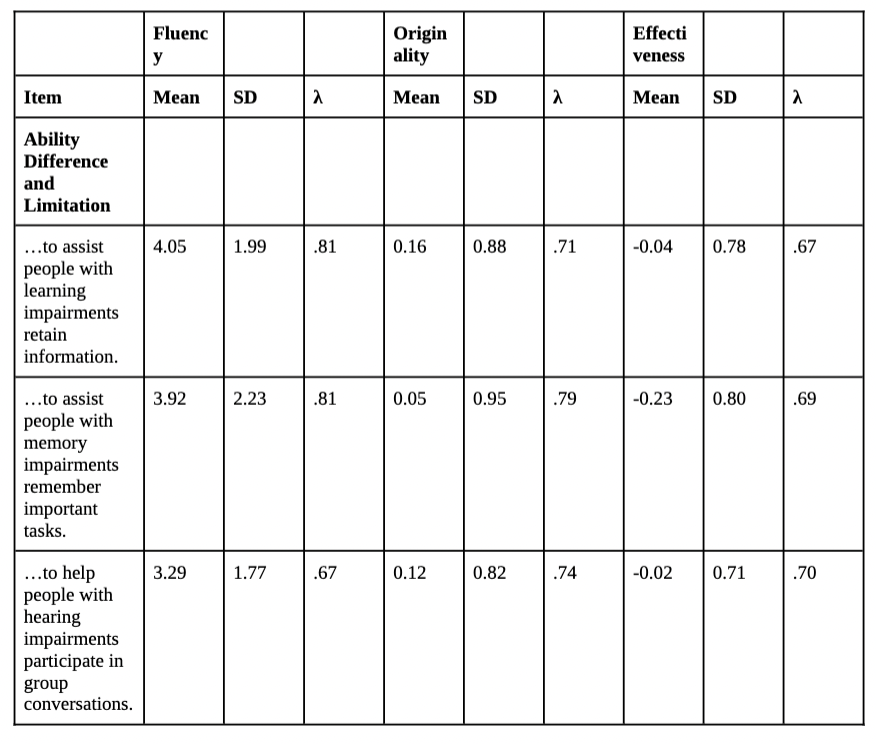
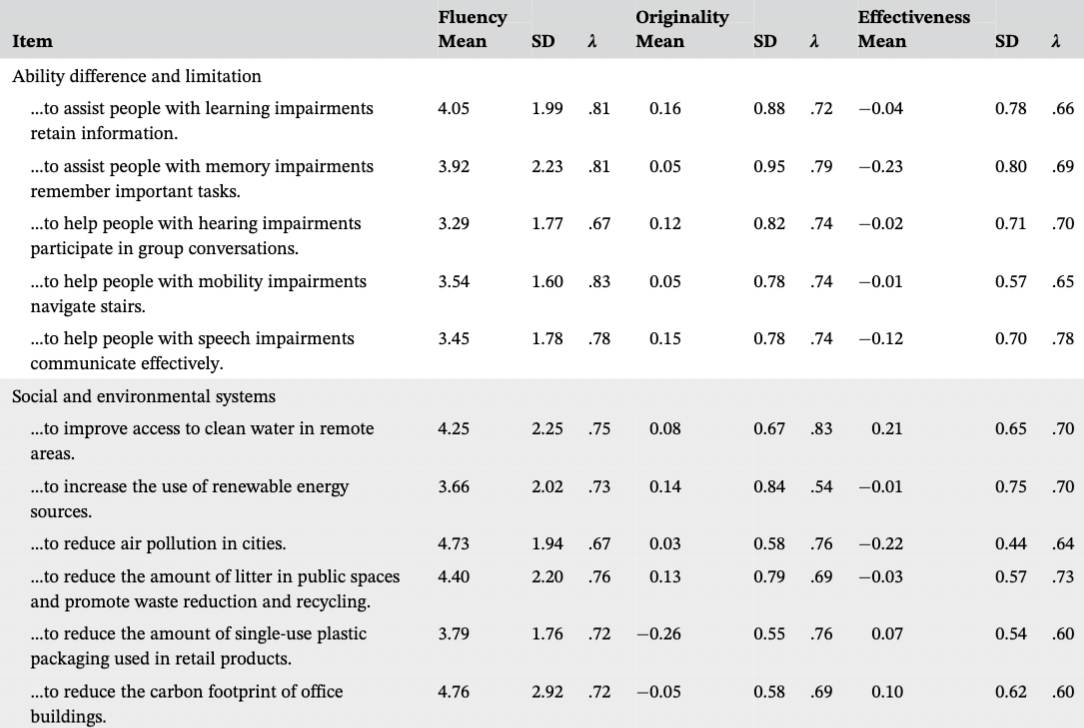
idea

diff --git a/index.html b/index.html
@@ -792,12 +792,13 @@
                         <div style="display: flex; flex-direction: column; align-items: flex-start;">
                             <img src="FigureDesign.png" alt="Figure Engineering Design Creativity Assessment" style="width: 480px; max-width: 60vw; border-radius: 0.7rem; box-shadow: 0 2px 12px 0 rgba(0,0,0,0.07);" />
                             <div style="font-size: 0.98rem; color: #888; margin-top: 0.5rem; margin-bottom: 0.5rem; max-width: 480px;">
-                                Luchini, S., Beaty, R., Boyce, A., Zappe, S., &amp; Forthmann, B. (2025). Automating creativity assessment in engineering design: A psychometric validation of AI-generated design problems. <i>OSF</i>.
+                                Luchini, S. A., Beaty, R. E., Boyce, A. S., Zappe, S. E., &amp; Forthmann, B. (2026). Automating creativity assessment in engineering design: A psychometric validation of AI-generated items of the design problem task. <i>Journal of Engineering Education, 115(3)</i>, e70066.
+                                <br><br>Code and data available <a href="https://osf.io/uqzj6/?view_only=8560b80ef6774c53853229cd23f9fdd2" target="_blank" rel="noopener">here</a>.
                             </div>
                         </div>
                         <div style="flex: 1 1 0; min-width: 0; font-size: 1.13rem; color: #222; font-family: 'Inter', Arial, sans-serif; line-height: 1.6;">
                             Creativity is essential for engineering design, yet its assessment remains challenging due to the resource-intensive nature of traditional evaluation methods. This study investigates the potential of automatic item generation (AIG) using large language models (LLMs) to create psychometrically sound assessment items for measuring creative thinking in engineering. We developed and validated engineering design problems across three domains: ability difference and limitations (e.g., assisting people with learning impairments), transportation and mobility (e.g., reducing traffic congestion in mega cities), and social environments and systems (e.g., improving access to clean water in remote areas). Results demonstrated that LLM-generated items achieved comparable or higher content validity rates compared to expert-written items (43% vs. 20% success rate). Bayesian confirmatory factor analysis supported a unidimensional model for fluency, originality, and effectiveness scores, with excellent reliability estimates (ranging from .92 to .95). The present research advances our understanding of automated assessment generation in engineering education, provides empirical evidence for the psychometric properties of AI-generated creativity tasks, and offers a scalable approach for measuring creative thinking in engineering classrooms.
-                            <br><a href="https://doi.org/10.31234/osf.io/e6t8k_v1" style="display: inline-block; margin-top: 0.5rem; color: #4a7cff; text-decoration: underline;">Read more</a>
+                            <br><a href="https://doi.org/10.1002/jee.70066" style="display: inline-block; margin-top: 0.5rem; color: #4a7cff; text-decoration: underline;">Read more</a>
                         </div>
                     </div>
                 </div>
